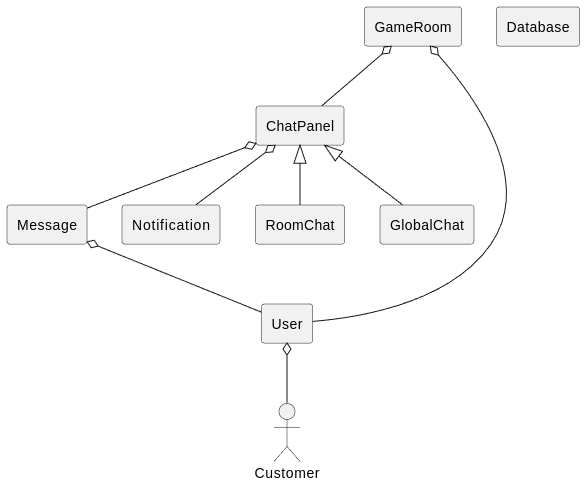
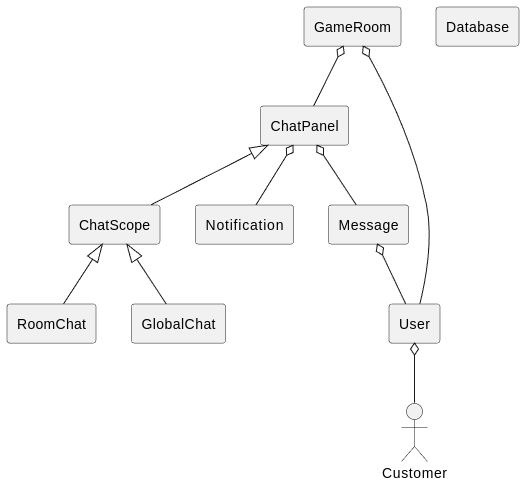
Refactor code structure for improved readability and maintainability

diff --git a/Documentation/LatexLab3/Template.tex b/Documentation/LatexLab3/Template.tex
@@ -327,18 +327,22 @@ Here’s the refined list of candidate domain classes after tuning:
 
 \begin{figure}[H]
     \centering
-    \includegraphics[width=\textwidth]{images/domain2.png}
-    \caption{Domain Model Diagram}
+    \includegraphics[width=0.8\textwidth]{images/domain1.png}
+    \caption{Domain Model Diagram v1}
     \label{fig:domain-model}
 \end{figure}
+
+\subsection{Improving the Domain Model}
+We will likely want to have private messages too. Our team also decided to have pinned messages and search functionality.
+
+The classes "Private Chat", "Pinned Message" and "Search Results" and "Message List" will be added to the domain model.
 
 \begin{figure}[H]
     \centering
-    \includegraphics[width=\textwidth]{images/domain1.png}
-    \caption{Domain Model Diagram}
+    \includegraphics[width=0.8\textwidth]{images/domain2.png}
+    \caption{Domain Model Diagram v2}
     \label{fig:domain-model}
 \end{figure}
-
 
 \section{Estimates??}
 \section{Project plan}
